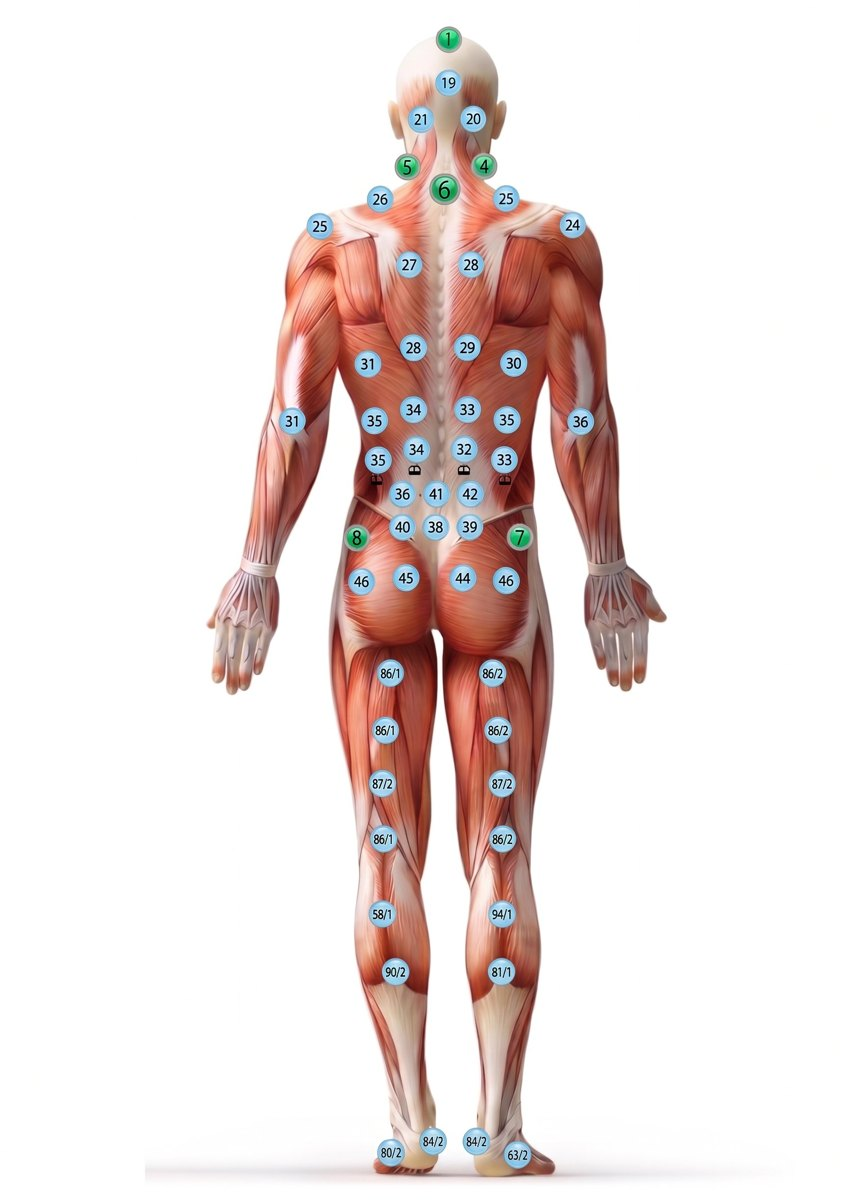
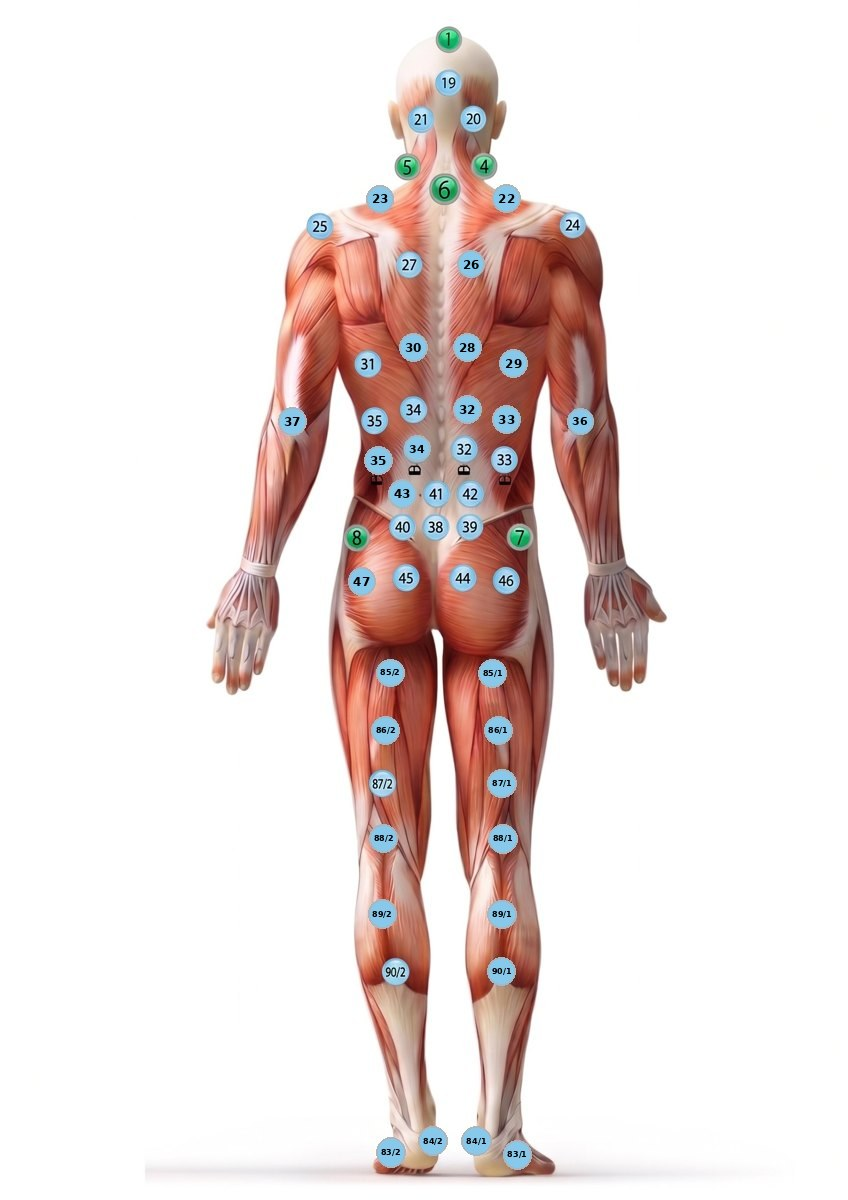
Tracker v2.1.2: corrected map numbers against the original annotated charts (back 26 + 2 missing, front 16 + 1 missing, face clean)

diff --git a/hijama-tracker/index.html b/hijama-tracker/index.html
@@ -218,7 +218,7 @@ footer{background:var(--dark);color:#A9BFAF;padding:18px;text-align:center;font-
 <footer>متتبّع الحجامة الاحترافي — منتج من زهير محرز / بيت الوقاية · البيانات ديالك كتبقى عندك، في جهازك</footer>
 
 <script>
-var APP_VERSION='2.1.1';
+var APP_VERSION='2.1.2';
 var LS={lic:'ht2_lic',clients:'ht2_clients',sessions:'ht2_sessions',pin:'ht2_pin'};
 function load(k,d){try{var v=localStorage.getItem(k);return v?JSON.parse(v):d}catch(e){return d}}
 function save(k,v){localStorage.setItem(k,JSON.stringify(v))}
@@ -227,9 +227,9 @@ function esc(s){return (s||'').toString().replace(/&/g,'&amp;').replace(/</g,'&l
 // [id, x%, y%] per view — الإحداثيات على الخرائط المنظفة
 var HOT={
 face:[['2',48.81,7.07,4.54],['3',48.79,15.94,4.49],['11.1',38.85,15.0,4.59],['11.2',59.29,14.97,4.54],['13.1',41.31,24.72,4.59],['13.2',56.45,24.23,4.54],['12.1',34.82,27.9,4.54],['12.2',63.35,27.87,4.54],['14.1',34.82,38.3,4.54],['14.2',63.39,38.27,4.54],['98.1',47.31,39.29,3.29],['98.2',51.38,39.29,3.24],['15.1',41.62,45.54,3.71],['15.2',56.68,45.14,3.65],['16.1',38.51,52.16,3.76],['16.2',59.59,51.7,3.71],['17.1',35.65,59.52,3.71],['17.2',63.14,59.12,3.71],['18',49.31,71.73,3.81]],
-back:[['1',52.92,3.29,3.26],['19',52.89,6.91,3.76],['21',49.65,9.98,3.76],['20',55.79,9.92,3.76],['5',48.06,13.89,3.26],['4',57.09,13.85,3.11],['6',52.46,15.75,3.83],['26',44.82,16.57,3.83],['25',59.75,16.53,3.83],['25',37.7,18.84,3.83],['24',67.56,18.76,3.83],['27',48.26,22.05,3.76],['28',55.56,22.03,3.76],['28',48.78,28.99,3.91],['29',55.12,28.95,3.83],['31',43.4,30.32,3.76],['30',60.59,30.28,3.91],['35',44.18,35.05,3.83],['34',48.78,34.14,3.91],['33',55.12,34.12,3.83],['35',59.78,34.98,3.91],['35',34.49,35.09,3.91],['34',44.62,38.34,3.91],['32',54.75,37.44,3.91],['33',59.52,38.3,3.83],['36',47.48,41.16,3.98],['41',51.5,41.16,3.91],['42',55.47,41.16,3.98],['40',47.48,43.92,3.83],['38',51.42,43.92,3.98],['39',55.41,43.92,3.83],['8',42.07,44.82,3.04],['7',61.34,44.78,3.04],['46',42.68,48.47,3.83],['45',47.89,48.16,3.83],['44',54.6,48.16,3.83],['46',59.72,48.38,3.91],['86/1',46.04,56.08,3.83],['86/2',58.1,56.1,3.91],['86/1',45.46,60.86,3.83],['86/2',58.74,60.88,3.91],['87/2',45.08,65.3,3.91],['87/2',59.2,65.3,3.91],['86/1',45.25,69.89,3.91],['86/2',59.29,69.91,3.98],['58/1',45.08,76.17,3.91],['94/1',59.2,76.19,3.91],['90/2',46.67,80.97,3.98],['81/1',59.14,80.99,3.91],['80/2',51.1,95.11,4.05],['84/2',46.09,96.05,4.12],['84/2',56.19,95.11,4.05],['63/2',61.02,96.24,3.98]],
-front:[['3',51.19,3.64,3.54],['25',44.33,15.53,3.76],['22',59.78,15.61,3.91],['51',35.73,18.35,3.83],['48',44.01,18.37,3.69],['49',60.1,18.39,3.83],['54',67.27,18.33,3.83],['50',51.19,20.38,3.83],['53',44.56,21.32,3.76],['57',48.12,23.1,3.83],['50',51.27,23.08,3.91],['56',58.39,21.4,3.91],['57',42.59,24.3,3.76],['56',56.92,24.35,3.83],['52',51.33,25.84,3.76],['60',43.46,29.6,3.76],['61',47.02,29.62,3.83],['62',55.21,29.62,3.76],['63',59.09,29.62,3.91],['64',42.82,33.49,3.91],['65',59.75,33.2,3.83],['66',43.08,36.13,3.83],['66',46.99,36.87,3.76],['66',55.5,36.8,3.76],['67',59.14,35.84,3.91],['66',47.45,40.1,3.76],['69',54.98,40.1,3.91],['70',51.59,41.73,3.83],['72',46.35,44.8,3.91],['71',51.56,44.8,4.05],['73',57.09,44.99,4.12],['91/1',50.09,53.46,3.83],['90/2',54.46,59.57,3.76],['90/1',50.38,59.57,3.69],['92/2',54.51,65.16,3.91],['93/1',49.86,65.2,3.83],['93/2',54.6,70.54,3.83],['80/1',42.22,68.41,3.83],['90/2',61.34,67.61,3.91],['94/1',49.02,71.56,3.91],['97/2',42.07,73.32,3.76],['97/2',61.17,72.59,3.91],['97/1',48.73,78.03,3.76],['95/2',54.54,78.01,3.83],['96/1',48.18,84.0,3.83],['96/2',54.48,84.0,3.83],['9',42.82,95.09,3.76],['10',57.23,95.29,3.76]],
-limbs:[['91/1',14.39,7.0,2.71],['92/1',14.59,16.87,2.71],['85/1',14.19,25.9,2.71],['80/1',8.18,30.96,2.66],['94/1',13.61,36.17,2.66],['97/1',8.1,39.12,2.66],['95/1',13.34,46.61,2.61],['88/1',12.94,56.16,2.71],['9',9.02,73.73,2.46],['85/1',28.78,8.3,2.71],['86/1',29.28,16.09,2.76],['97/1',29.64,23.32,2.76],['88/1',29.78,30.84,2.71],['89/1',29.64,41.12,2.66],['90/1',29.66,49.07,2.71],['84/1',27.23,72.16,2.66],['83/1',31.13,74.07,2.66],['78/1',51.67,17.62,2.66],['78/1',51.87,26.79,2.66],['80/1',50.94,39.09,2.66],['97/1',52.17,44.76,2.61],['81/1',50.04,49.28,2.71],['82/1',50.06,56.94,2.66],['83/1',48.65,72.83,2.66],['9',54.18,75.12,2.51],['76/2',76.19,16.96,2.66],['77/2',73.49,20.72,2.66],['74/2',90.82,31.25,2.66],['75/2',83.32,41.61,2.61],['76/2',71.16,50.75,2.06],['77/2',69.13,53.3,2.11]]};
+back:[['1',52.92,3.29,3.26],['19',52.89,6.91,3.76],['21',49.65,9.98,3.76],['20',55.79,9.92,3.76],['5',48.06,13.89,3.26],['4',57.09,13.85,3.11],['6',52.46,15.75,3.83],['23',44.82,16.57,3.83],['22',59.75,16.53,3.83],['25',37.7,18.84,3.83],['24',67.56,18.76,3.83],['27',48.26,22.05,3.76],['26',55.56,22.03,3.76],['30',48.78,28.99,3.91],['28',55.12,28.95,3.83],['31',43.4,30.32,3.76],['29',60.59,30.28,3.91],['35',44.18,35.05,3.83],['34',48.78,34.14,3.91],['32',55.12,34.12,3.83],['33',59.78,34.98,3.91],['37',34.49,35.09,3.91],['35',44.62,38.34,3.91],['32',54.75,37.44,3.91],['33',59.52,38.3,3.83],['43',47.48,41.16,3.98],['41',51.5,41.16,3.91],['42',55.47,41.16,3.98],['40',47.48,43.92,3.83],['38',51.42,43.92,3.98],['39',55.41,43.92,3.83],['8',42.07,44.82,3.04],['7',61.34,44.78,3.04],['47',42.68,48.47,3.83],['45',47.89,48.16,3.83],['44',54.6,48.16,3.83],['46',59.72,48.38,3.91],['85/2',46.04,56.08,3.83],['85/1',58.1,56.1,3.91],['86/2',45.46,60.86,3.83],['86/1',58.74,60.88,3.91],['87/2',45.08,65.3,3.91],['87/1',59.2,65.3,3.91],['88/2',45.25,69.89,3.91],['88/1',59.29,69.91,3.98],['89/2',45.08,76.17,3.91],['89/1',59.2,76.19,3.91],['90/2',46.67,80.97,3.98],['90/1',59.14,80.99,3.91],['84/2',51.1,95.11,4.05],['83/2',46.09,96.05,4.12],['84/1',56.19,95.11,4.05],['83/1',61.02,96.24,3.98],['36',68.41,35.11,3.83],['34',49.19,37.4,3.83]],
+front:[['3',51.19,3.64,3.54],['23',44.33,15.53,3.76],['22',59.78,15.61,3.91],['53',35.73,18.35,3.83],['48',44.01,18.37,3.69],['49',60.1,18.39,3.83],['54',67.27,18.33,3.83],['50',51.19,20.38,3.83],['55',44.56,21.32,3.76],['59',48.12,23.1,3.83],['51',51.27,23.08,3.91],['56',58.39,21.4,3.91],['57',42.59,24.3,3.76],['58',56.92,24.35,3.83],['52',51.33,25.84,3.76],['60',43.46,29.6,3.76],['61',47.02,29.62,3.83],['62',55.21,29.62,3.76],['63',59.09,29.62,3.91],['64',42.82,33.49,3.91],['65',59.75,33.2,3.83],['66',43.08,36.13,3.83],['68',46.99,36.87,3.76],['69',55.5,36.8,3.76],['67',59.14,35.84,3.91],['68',47.45,40.1,3.76],['69',54.98,40.1,3.91],['70',51.59,41.73,3.83],['72',46.35,44.8,3.91],['71',51.56,44.8,4.05],['73',57.09,44.99,4.12],['91/1',50.09,53.46,3.83],['92/2',54.46,59.57,3.76],['92/1',50.38,59.57,3.69],['93/2',54.51,65.16,3.91],['93/1',49.86,65.2,3.83],['94/2',54.6,70.54,3.83],['80/1',42.22,68.41,3.83],['80/2',61.34,67.61,3.91],['94/1',49.02,71.56,3.91],['97/1',42.07,73.32,3.76],['97/2',61.17,72.59,3.91],['95/1',48.73,78.03,3.76],['95/2',54.54,78.01,3.83],['96/1',48.18,84.0,3.83],['96/2',54.48,84.0,3.83],['9',42.82,95.09,3.76],['10',57.23,95.29,3.76],['91/2',54.58,53.39,3.83]],
+limbs:[['91/1',14.39,7.0,2.71],['92/1',14.59,16.87,2.71],['85/1',14.19,25.9,2.71],['80/1',8.18,30.96,2.66],['94/1',13.61,36.17,2.66],['97/1',8.1,39.12,2.66],['95/1',13.34,46.61,2.61],['88/1',12.94,56.16,2.71],['9',9.02,73.73,2.46],['85/1',28.78,8.3,2.71],['86/1',29.28,16.09,2.76],['97/1',29.64,23.32,2.76],['88/1',29.78,30.84,2.71],['89/1',29.64,41.12,2.66],['90/1',29.66,49.07,2.71],['84/1',27.23,72.16,2.66],['83/1',31.13,74.07,2.66],['78/1',51.67,17.62,2.66],['78/1',51.87,26.79,2.66],['80/1',50.94,39.09,2.66],['97/1',52.17,44.76,2.61],['81/1',50.04,49.28,2.71],['82/1',50.06,56.94,2.66],['83/1',48.65,72.83,2.66],['9',54.18,75.12,2.51],['76/2',76.19,16.96,2.66],['77/2',73.49,20.72,2.66],['74/2',90.82,31.25,2.66],['75/2',83.32,41.61,2.61],['76/2',71.16,50.75,2.06],['77/2',69.13,53.3,2.11]]};;
 var SUNNAH=['1','2','3','4','5','6','7','8','9','10'];
 var PREVENTIVE=['6','26','27','4','5','1','9','10'];
 // ================= DISEASE INDEX (فهرس المواضع بحسب المرض — من عند الممارس) =================
